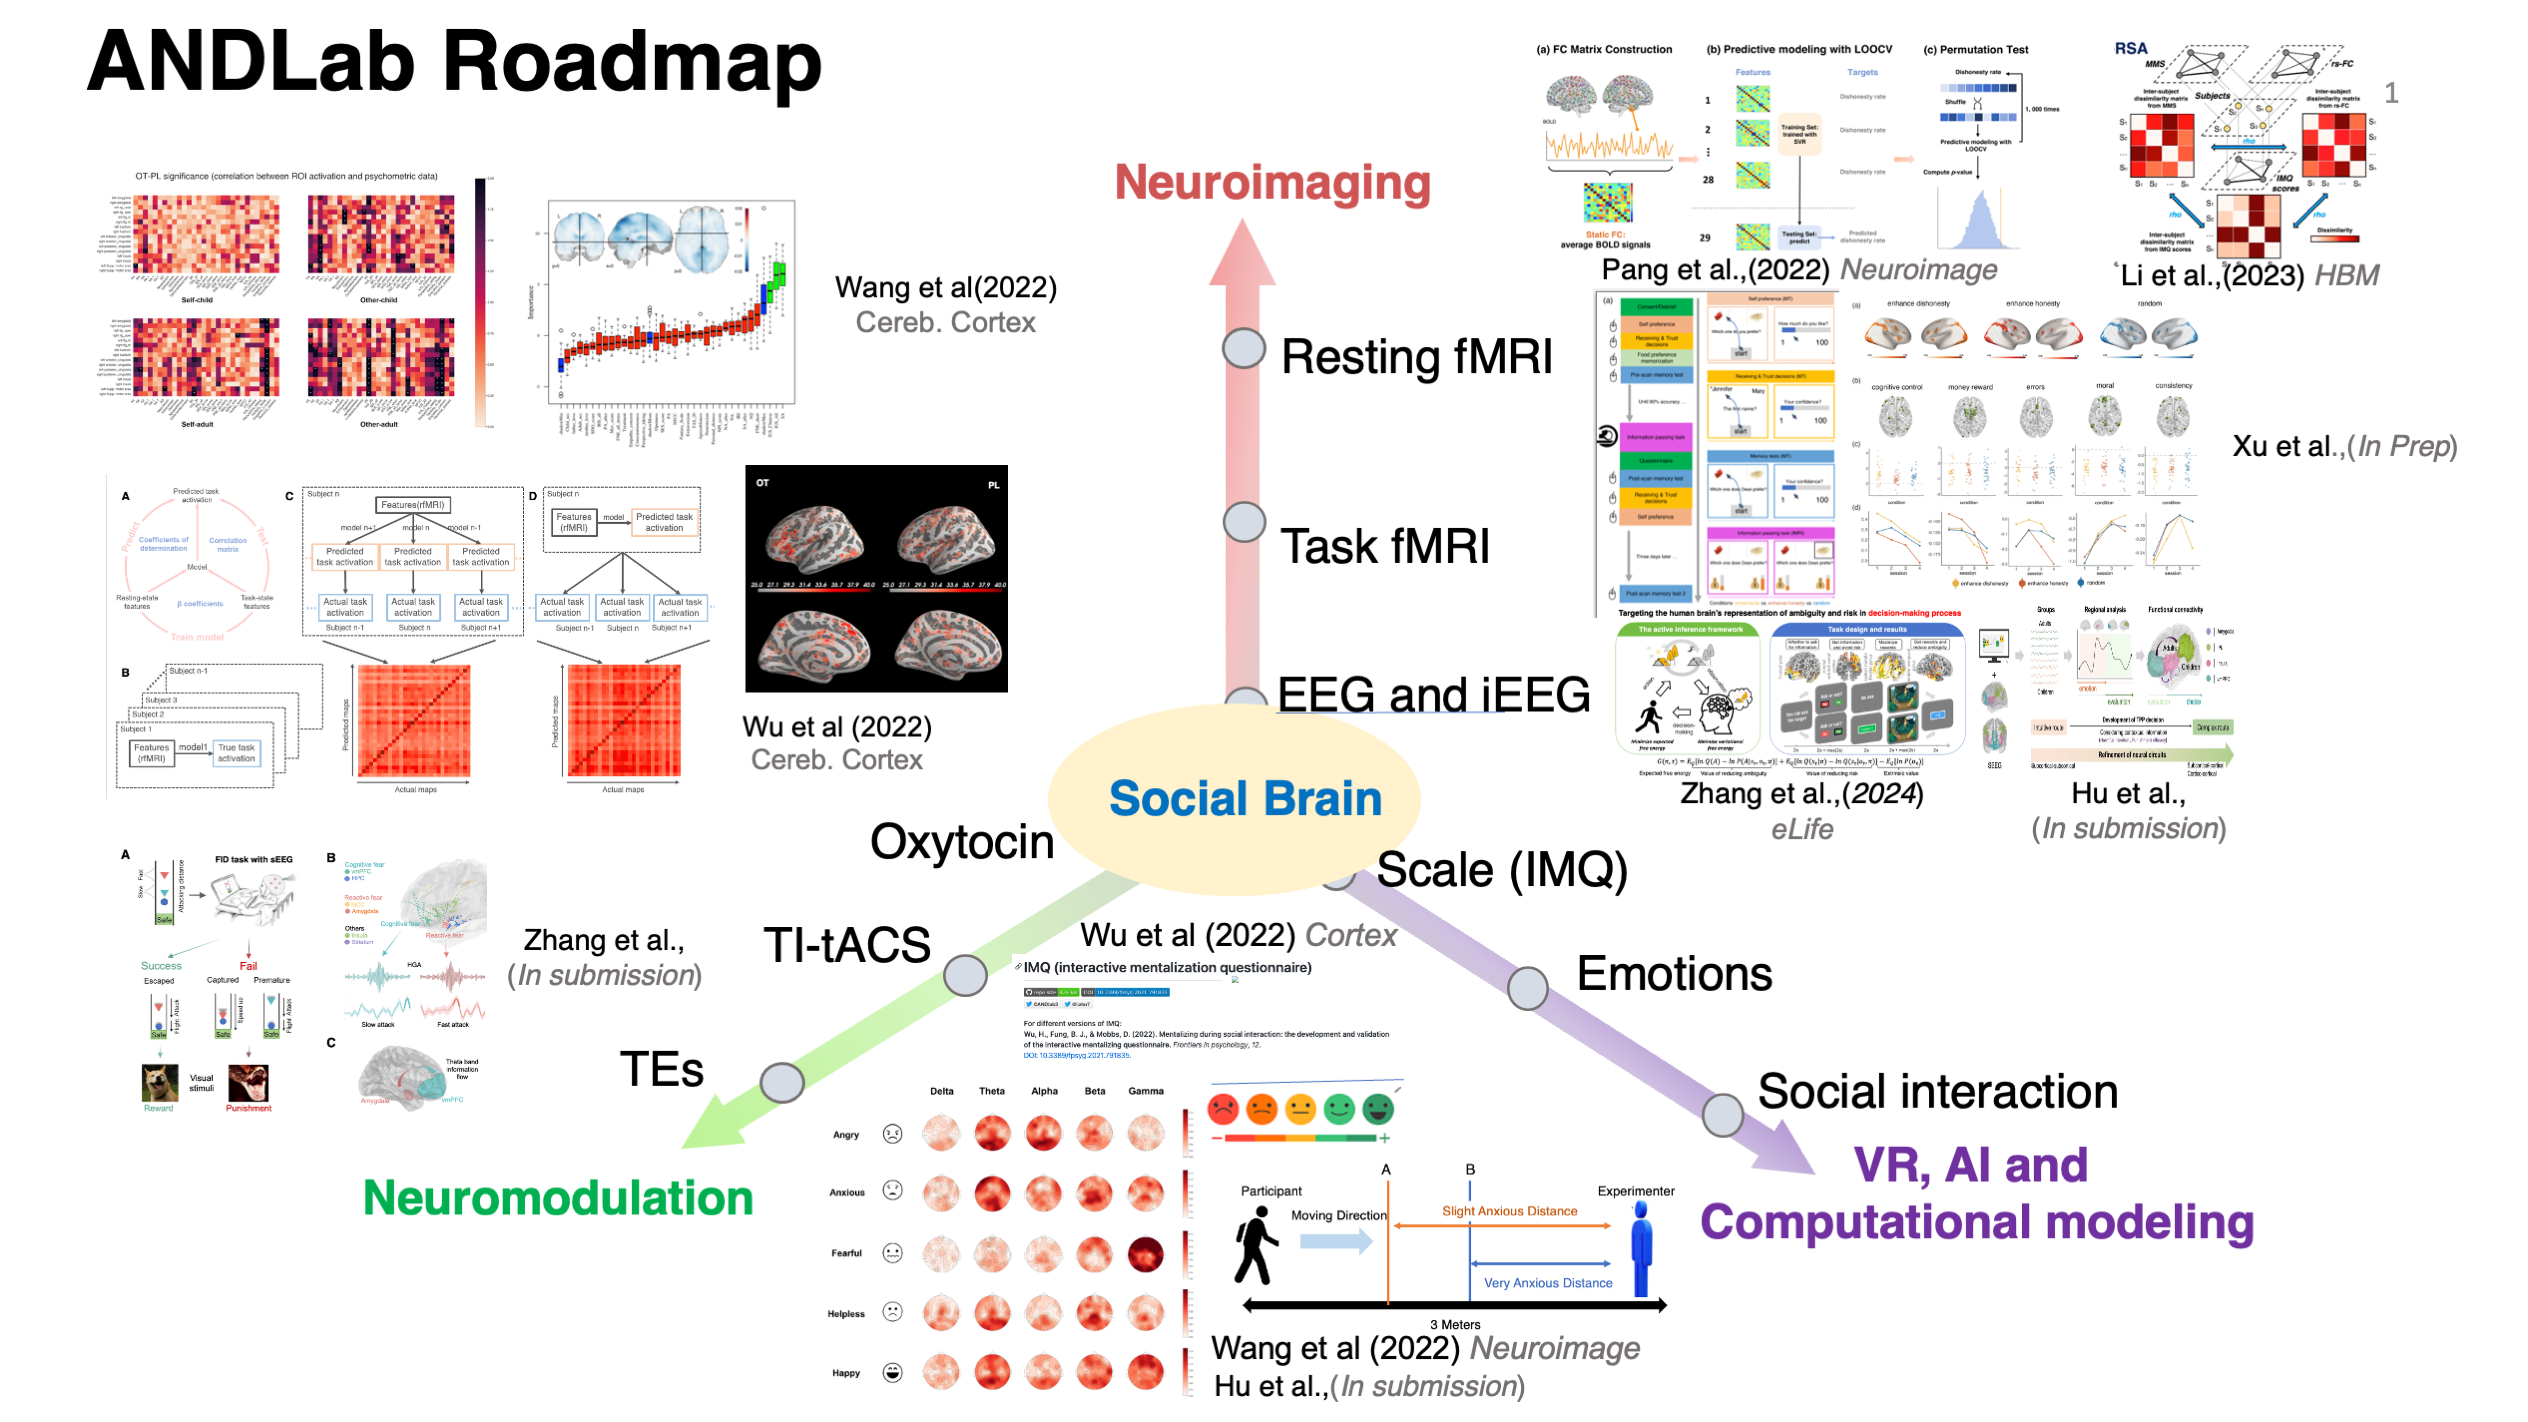
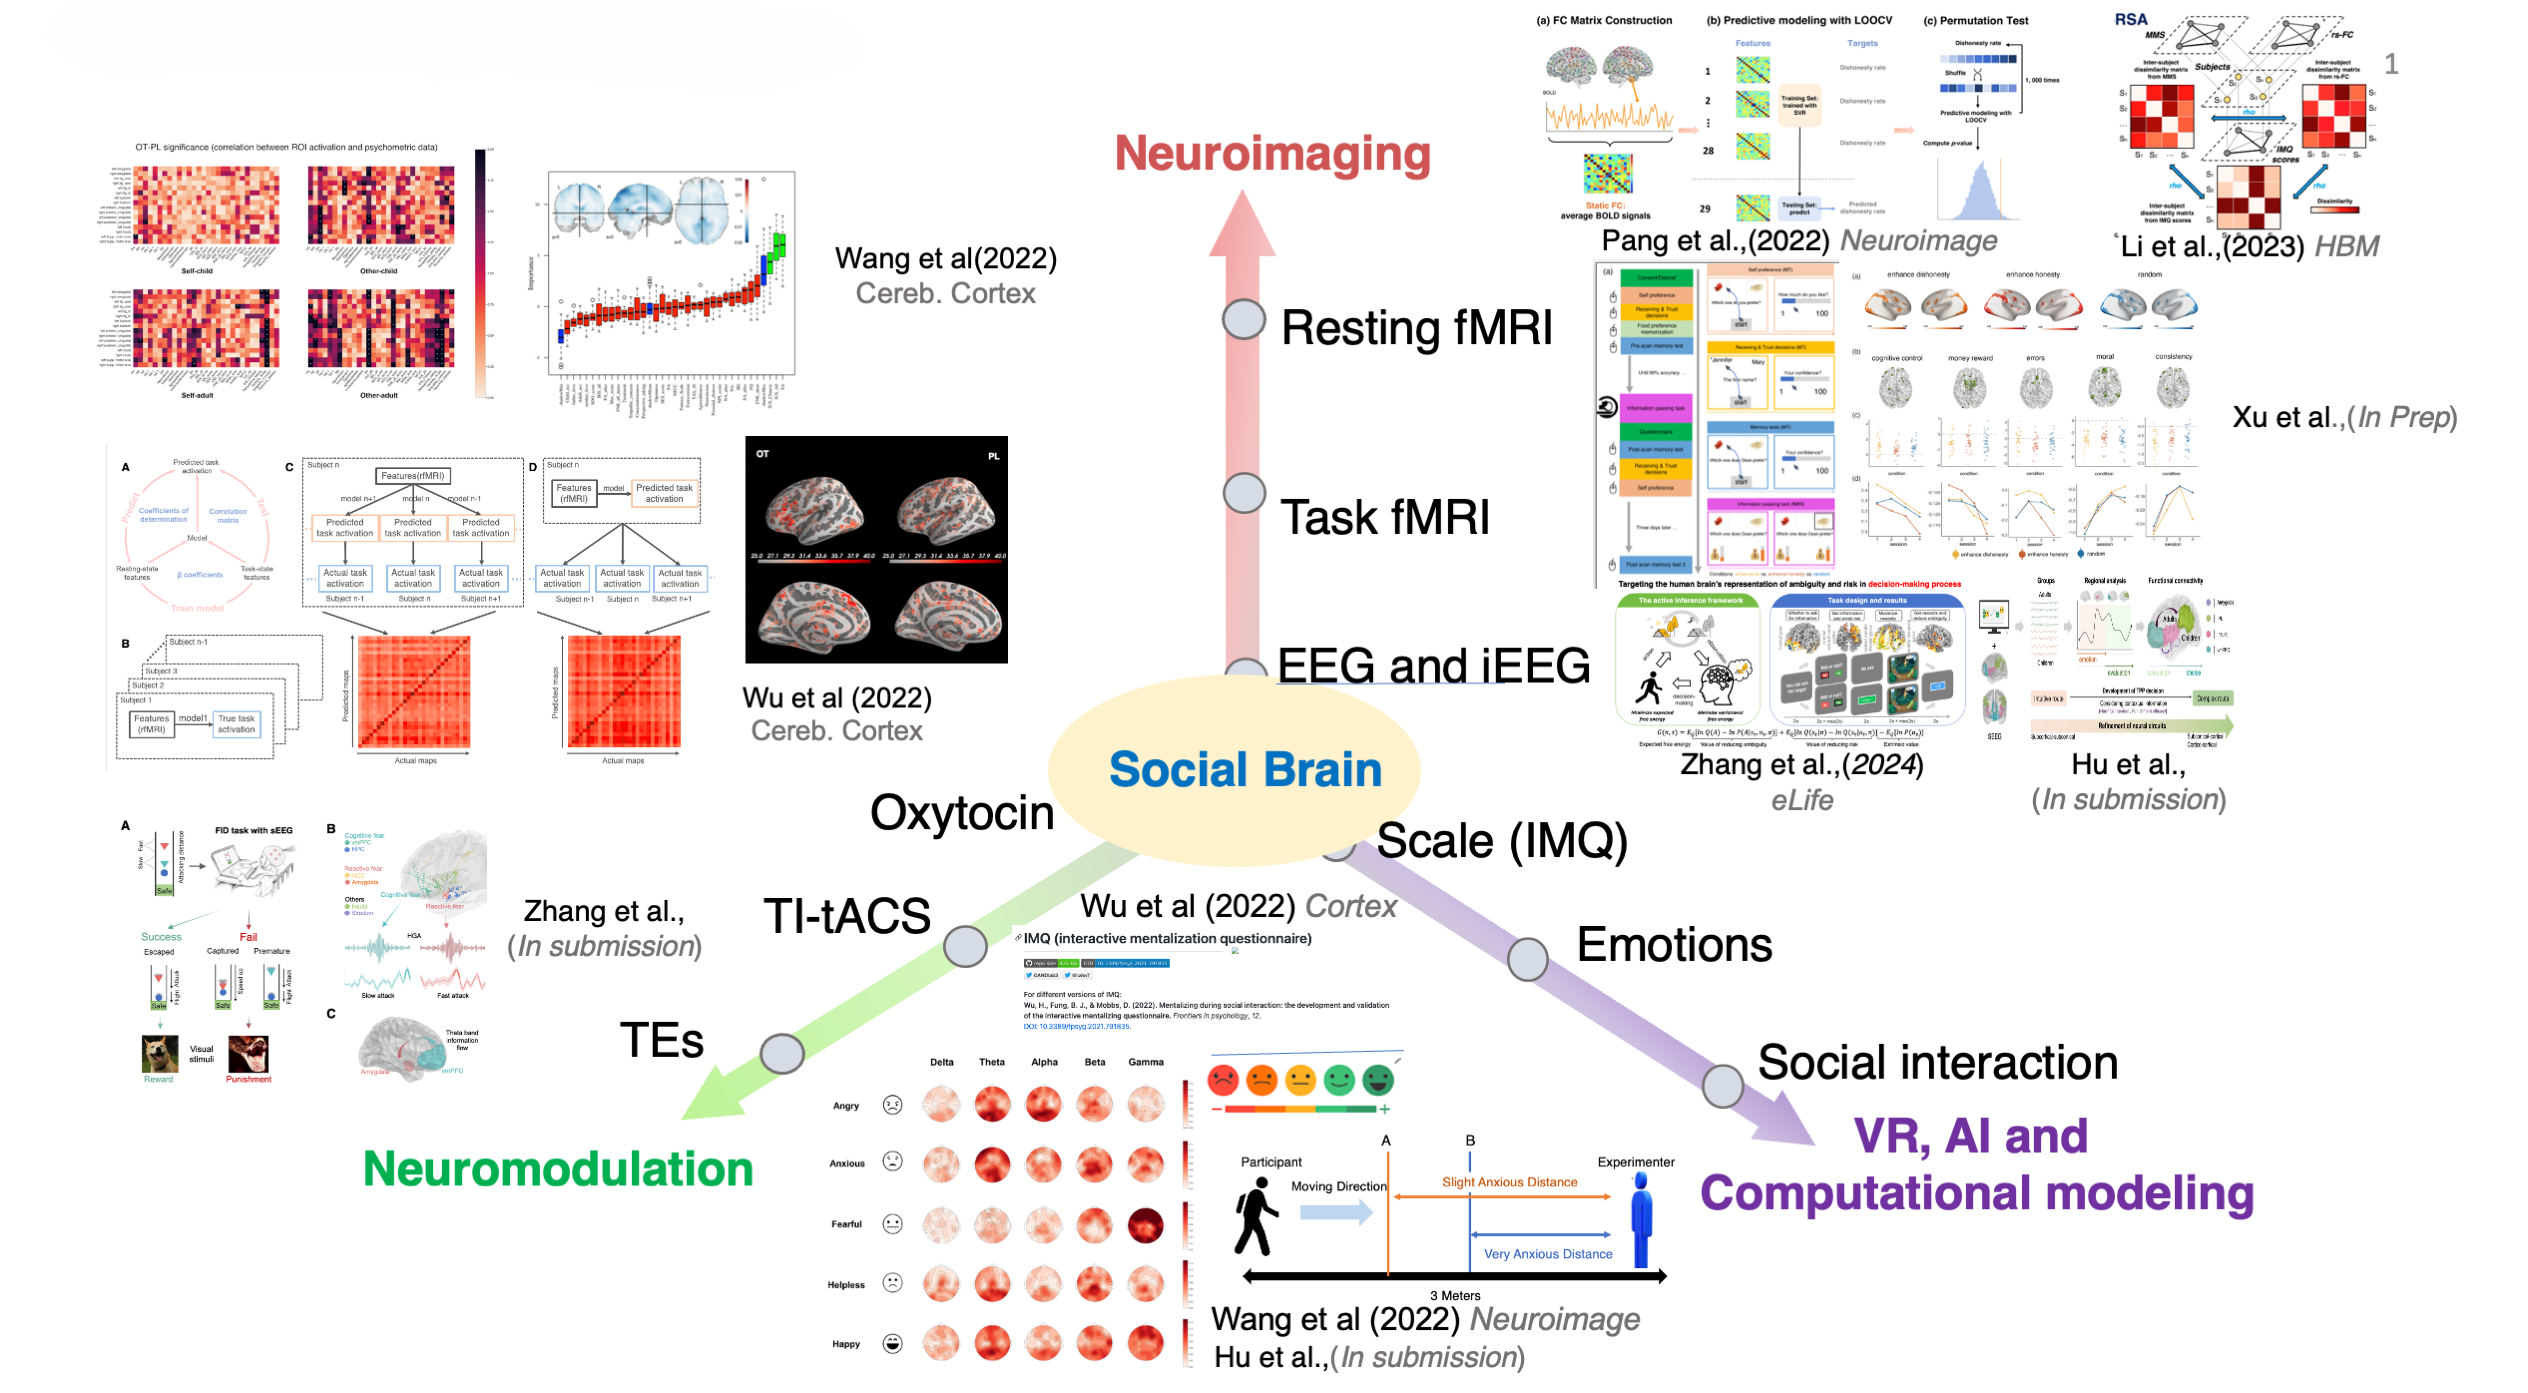
update roadmap file

Changed region(s): [[0.0312, 0.0, 0.9688, 0.9878], [0.0312, 0.0, 0.3438, 0.0926], [0.4688, 0.3396, 0.5938, 0.4013]]

diff --git a/_pages/home.md b/_pages/home.md
@@ -7,6 +7,8 @@ permalink: /
 
 The Affective, Neuroscience, and Decision-making lab is located at the [Centre for Cognitive and Brain Sciences](https://ccbs.ici.um.edu.mo){:target="_blank"} (CCBS) at [University of Macau](https://um.edu.mo){:target="_blank"} (UM), Macau SAR, China.
 
+## Roadmap
+
 ![roadmap](./../assets/images/homepage/roadmap.png)
 
 <!-- Our current **<span style="color:#e06666">research directions</span>**: -->
